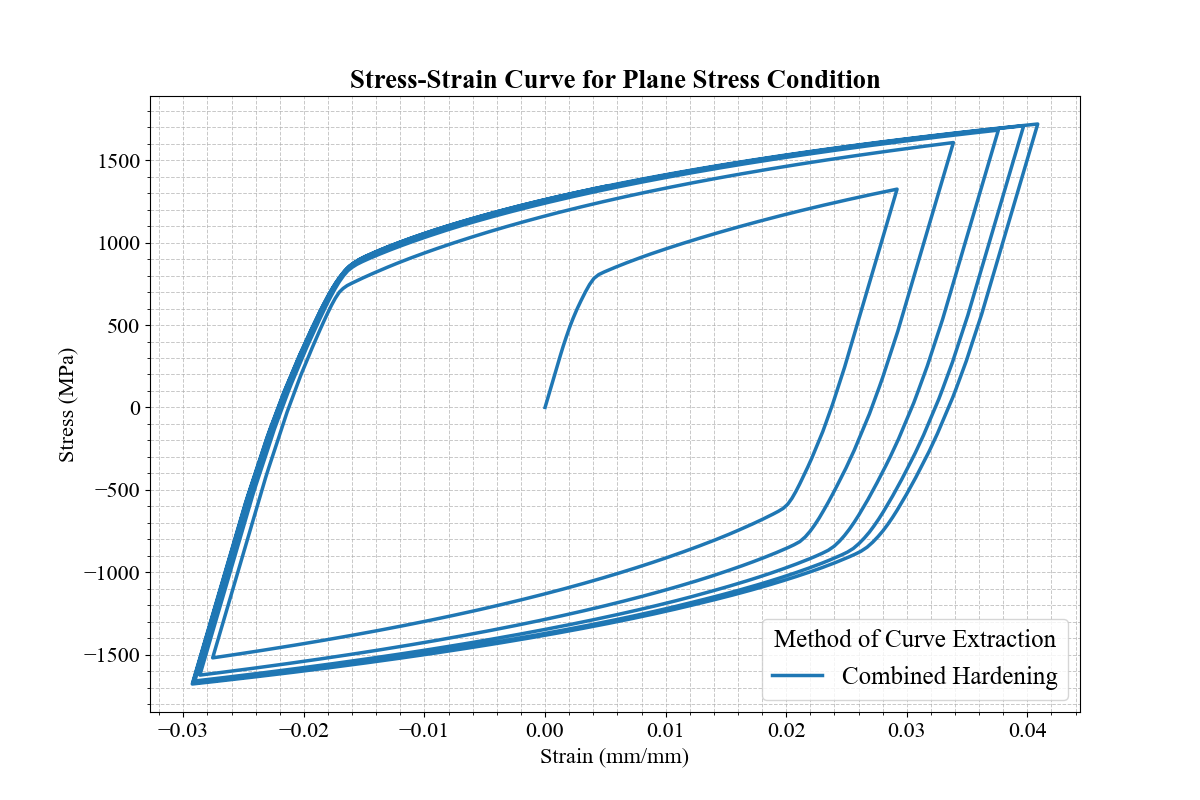
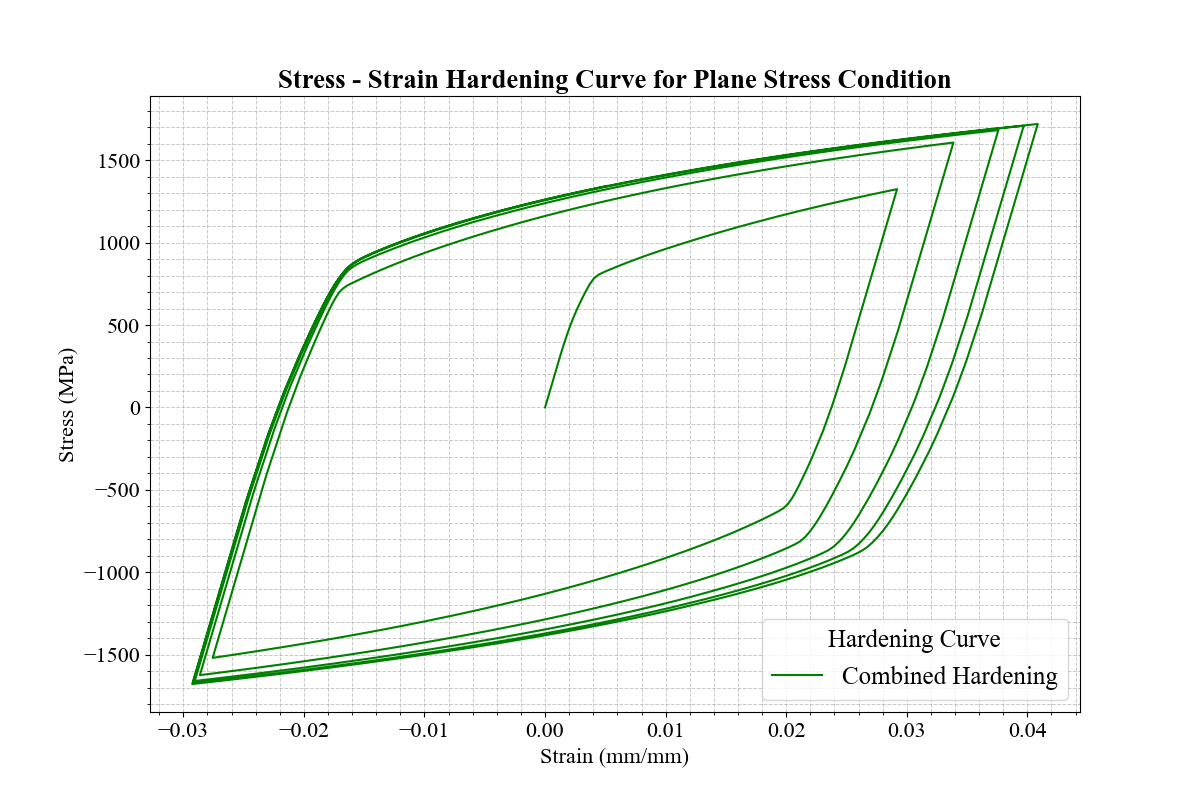
Updated version on the graphs for better visualization.

diff --git a/visualize_tensileGraph/src/main_final.py b/visualize_tensileGraph/src/main_final.py
@@ -66,9 +66,9 @@ class TensileTestVisualization:
         line_formats = ['-', '-', '-', '-']
         for i, data in enumerate(self.datasets):
             fmt = line_formats[i % len(line_formats)]
-            plt.plot(data["strain"], data["stress"], fmt, label=data["label"], linewidth=1.5)
+            plt.plot(data["strain"], data["stress"], fmt, label=data["label"], linewidth=1.5, color='green')
 
-        plt.title("Stress-Strain Curve for Plane Stress Condition")
+        plt.title("Stress - Strain Hardening Curve for Plane Stress Condition")
         plt.xlabel("Strain (mm/mm)")
         plt.ylabel("Stress (MPa)")
 
@@ -89,7 +89,7 @@ class TensileTestVisualization:
         #         ha=ha,
         #         va=va
         #     )
-        plt.legend(loc='lower right', title="Method of Curve Extraction")
+        plt.legend(loc='lower right', title="Hardening Curve")
         plt.grid(True, which='both', linestyle='--', linewidth=0.7, alpha=0.7)
         plt.minorticks_on()
 
@@ -108,9 +108,9 @@ def main():
     output_plot_path = project_root / "visualize_tensileGraph" / "res" / "All_Hardening.png"
     
     file_names = {
+        "Combined Hardening": "combined_hardening.dat",
         "Isotropic Hardening": "isotropic_hardening.dat",
-        "Kinematic Hardening": "kinematic_hardening.dat",
-        "Combined Hardening": "combined_hardening.dat"
+        "Kinematic Hardening": "kinematic_hardening.dat"
     }
 
     cross_section_mm2 = 1 
